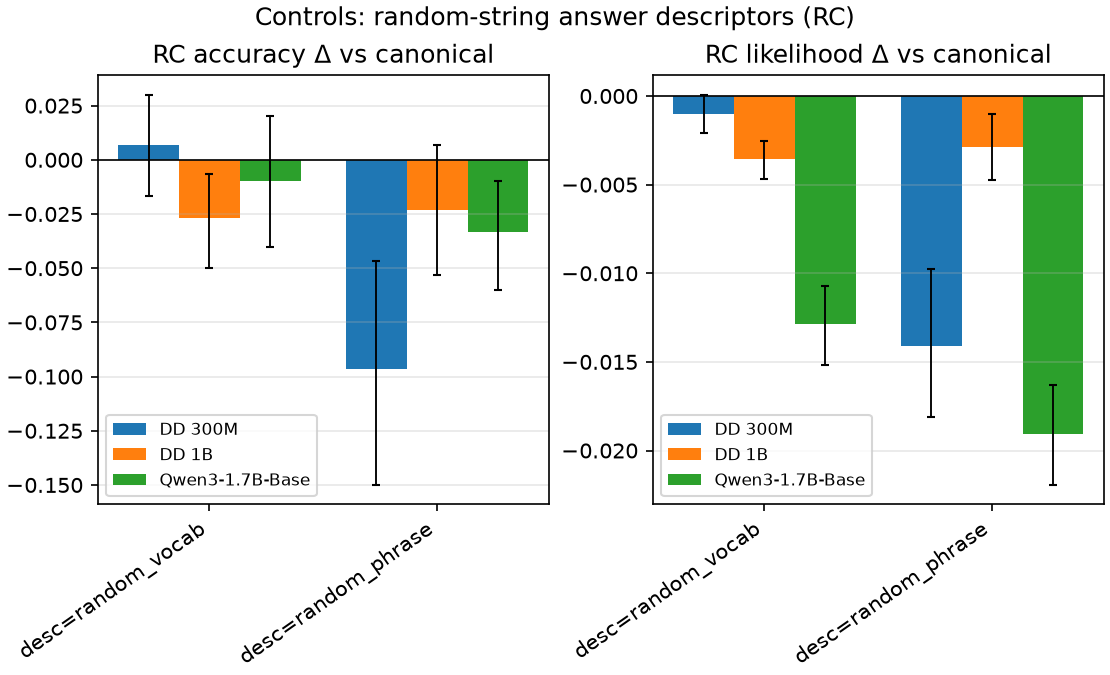
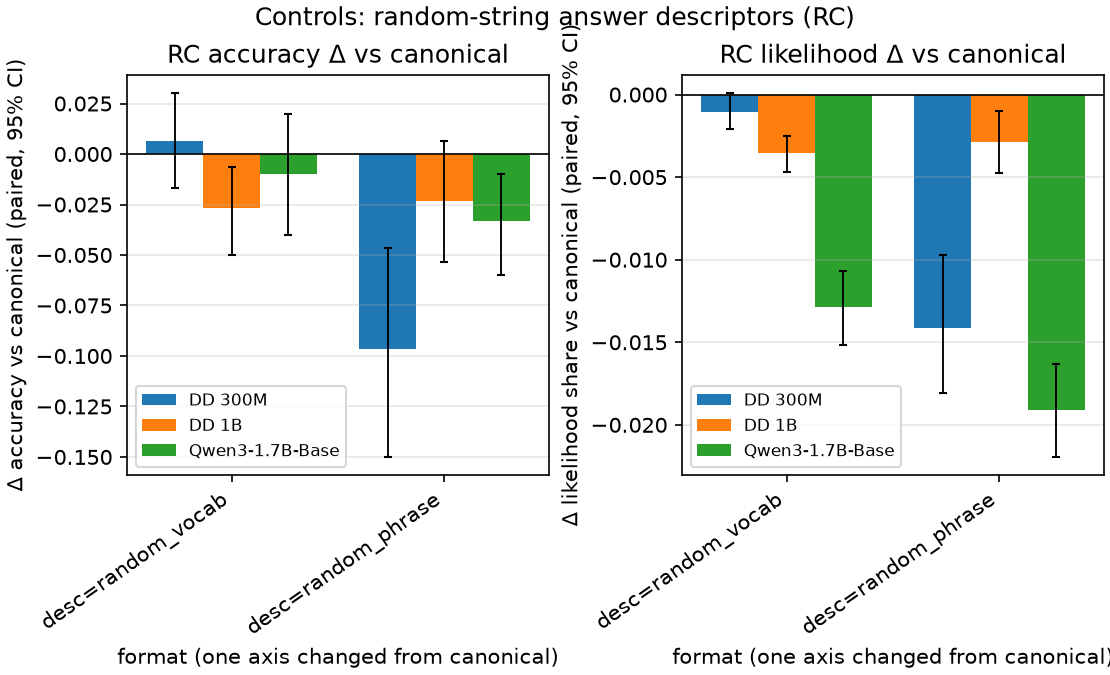
Format effect charts: axis labels

diff --git a/scripts/po_format_effects.py b/scripts/po_format_effects.py
@@ -113,6 +113,8 @@ def main(
         ax.axhline(0, color="black", lw=0.8)
         ax.set_xticks(x)
         ax.set_xticklabels(fmts, rotation=35, ha="right")
+        ax.set_xlabel("format (one axis changed from canonical)")
+        ax.set_ylabel("Δ accuracy vs canonical (paired, 95% CI)" if metric == "primary" else "Δ likelihood share vs canonical (paired, 95% CI)")
         ax.set_title(title)
         ax.grid(axis="y", alpha=0.3)
         ax.legend(fontsize=8)
